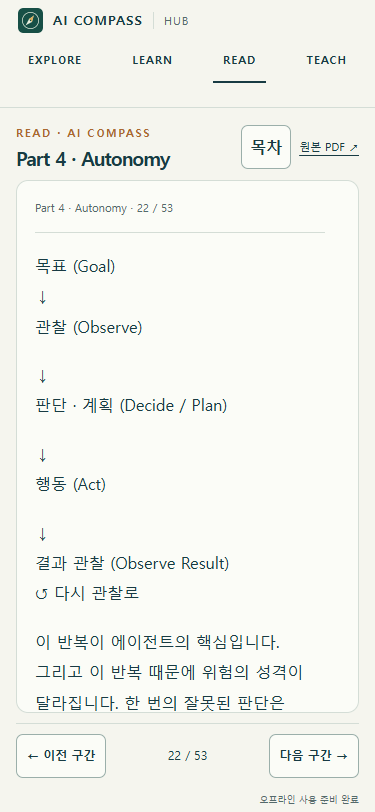
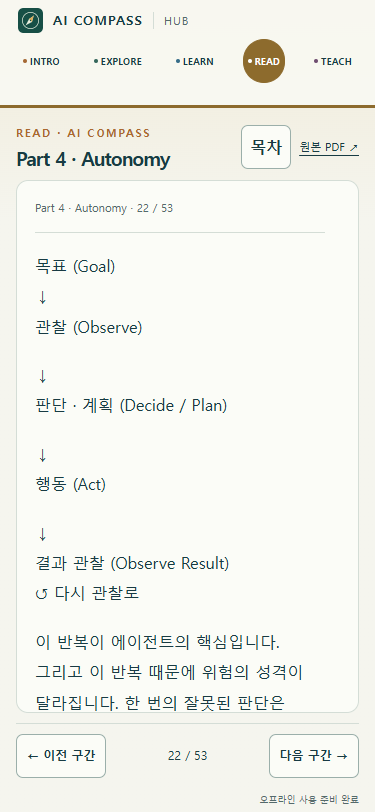
feat: distinguish Hub sections visually

Changed region(s): [[0.0, 0.0308, 1.0, 0.1539], [0.0587, 0.0616, 0.2053, 0.0924], [0.8213, 0.0616, 0.9387, 0.0924]]

diff --git a/pwa/hub/styles.css b/pwa/hub/styles.css
@@ -9,3 +9,5 @@
 .student-slide .capability{grid-template-columns:repeat(2,minmax(0,1fr))}.student-slide .dimension{min-height:68px}.student-slide .compass{margin:10px auto}.student-slide .dimension strong{font-size:12px}
 @media(max-width:800px){.student-slide .capability{grid-template-columns:1fr}}
 @media(prefers-reduced-motion:reduce){*,*::before,*::after{animation:none!important;transition:none!important;scroll-behavior:auto!important}}
+body{--section:#a66a35;--section-wash:#f4eadc;background:linear-gradient(180deg,var(--section-wash) 0,#f5f5ee 220px)}.header{background:#f8f8f2eb;border-bottom:0;box-shadow:inset 0 -3px 0 var(--section)}.header nav a{--nav-color:#536b6e;--nav-soft:#e5ebe7;gap:7px;border:1px solid transparent;border-radius:999px}.header nav a::before{content:"";width:7px;height:7px;flex:0 0 auto;border-radius:50%;background:var(--nav-color)}.header nav a[data-section="intro"]{--nav-color:#a66a35;--nav-soft:#f1e2d2}.header nav a[data-section="explore"]{--nav-color:#35675c;--nav-soft:#dceae1}.header nav a[data-section="learn"]{--nav-color:#376d88;--nav-soft:#dce9ef}.header nav a[data-section="read"]{--nav-color:#8d6b2d;--nav-soft:#eee6ce}.header nav a[data-section="teach"]{--nav-color:#704e70;--nav-soft:#eadfea}.header nav a:hover{background:var(--nav-soft)}.header nav a[aria-current]{background:var(--nav-color);border-color:var(--nav-color);color:#fff}.header nav a[aria-current]::before{background:#fff}body[data-section="intro"]{--section:#a66a35;--section-wash:#f4eadc}body[data-section="explore"]{--section:#35675c;--section-wash:#e3eee7}body[data-section="learn"]{--section:#376d88;--section-wash:#e3edf2}body[data-section="read"]{--section:#8d6b2d;--section-wash:#f0ead8}body[data-section="teach"]{--section:#704e70;--section-wash:#ede4ed}
+@media(max-width:800px){.header nav a{min-width:0;font-size:9px;padding:6px 4px;gap:3px;letter-spacing:.04em}.header nav a::before{width:4px;height:4px}}

diff --git a/pwa/hub/index.html b/pwa/hub/index.html
@@ -16,7 +16,7 @@
   <a class="skip" href="#main">본문으로 건너뛰기</a>
   <header class="header">
     <a class="brand" href="#/intro"><img src="./icon.svg" alt="" width="32" height="32">AI COMPASS<span>HUB</span></a>
-    <nav aria-label="주 메뉴"><a href="#/explore/system">EXPLORE</a><a href="#/learn/glossary">LEARN</a><a href="#/read">READ</a><a href="#/teach">TEACH</a></nav>
+    <nav aria-label="주 메뉴"><a data-section="intro" href="#/intro">INTRO</a><a data-section="explore" href="#/explore/system">EXPLORE</a><a data-section="learn" href="#/learn/glossary">LEARN</a><a data-section="read" href="#/read">READ</a><a data-section="teach" href="#/teach">TEACH</a></nav>
   </header>
   <main id="main" tabindex="-1"><p role="status">Compass를 불러오는 중입니다…</p></main>
   <footer><span>AI Compass · Systems & Risk Literacy</span><span id="status" role="status"></span></footer>

diff --git a/pwa/hub/service-worker.js b/pwa/hub/service-worker.js
@@ -1,4 +1,4 @@
-const CACHE='ai-compass-hub-v2-3';
+const CACHE='ai-compass-hub-v2-4';
 const assets=['./','./index.html','./app.js','./router.js','./storage.js','./styles.css','./manifest.webmanifest','./icon.svg','./icon-192.png','./icon-512.png','./hero-compass.png','./data/hub.json','./data/ebook.json','./data/teacher-deck.json','./data/cases.json','../../docs/education/glossary/AI_COMPASS_GLOSSARY_DATA_v1.0.json','../glossary/','../glossary/index.html','../glossary/styles.css','../glossary/app.js','../glossary/storage.js','../glossary/service-worker.js','../glossary/manifest.webmanifest','../glossary/icon.svg','../glossary/icon-192.png','../glossary/icon-512.png'];
 const urls=assets.map(p=>new URL(p,self.location).href);
 self.addEventListener('install',event=>event.waitUntil(caches.open(CACHE).then(c=>c.addAll(urls)).then(()=>self.skipWaiting())));

diff --git a/pwa/hub/router.js b/pwa/hub/router.js
@@ -3,6 +3,7 @@ export function routeParts() {
   catch {return ['missing'];}
 }
 export function selectNav(section) {
+  document.body.dataset.section = section;
   document.querySelectorAll('.header nav a').forEach(link => {
     if (link.hash.split('/')[1] === section) link.setAttribute('aria-current','page');
     else link.removeAttribute('aria-current');

diff --git a/pwa/hub/ACCEPTANCE.md b/pwa/hub/ACCEPTANCE.md
@@ -1,6 +1,6 @@
 # AI Compass Hub v2 Acceptance
 
-검증 시각: 2026-09-10T04:24:32.246Z
+검증 시각: 2026-09-10T04:34:16.850Z
 
 Windows / Microsoft Edge(headless) / Playwright. 데스크톱 1366×768, 모바일 375×812 및 320×812.
 
